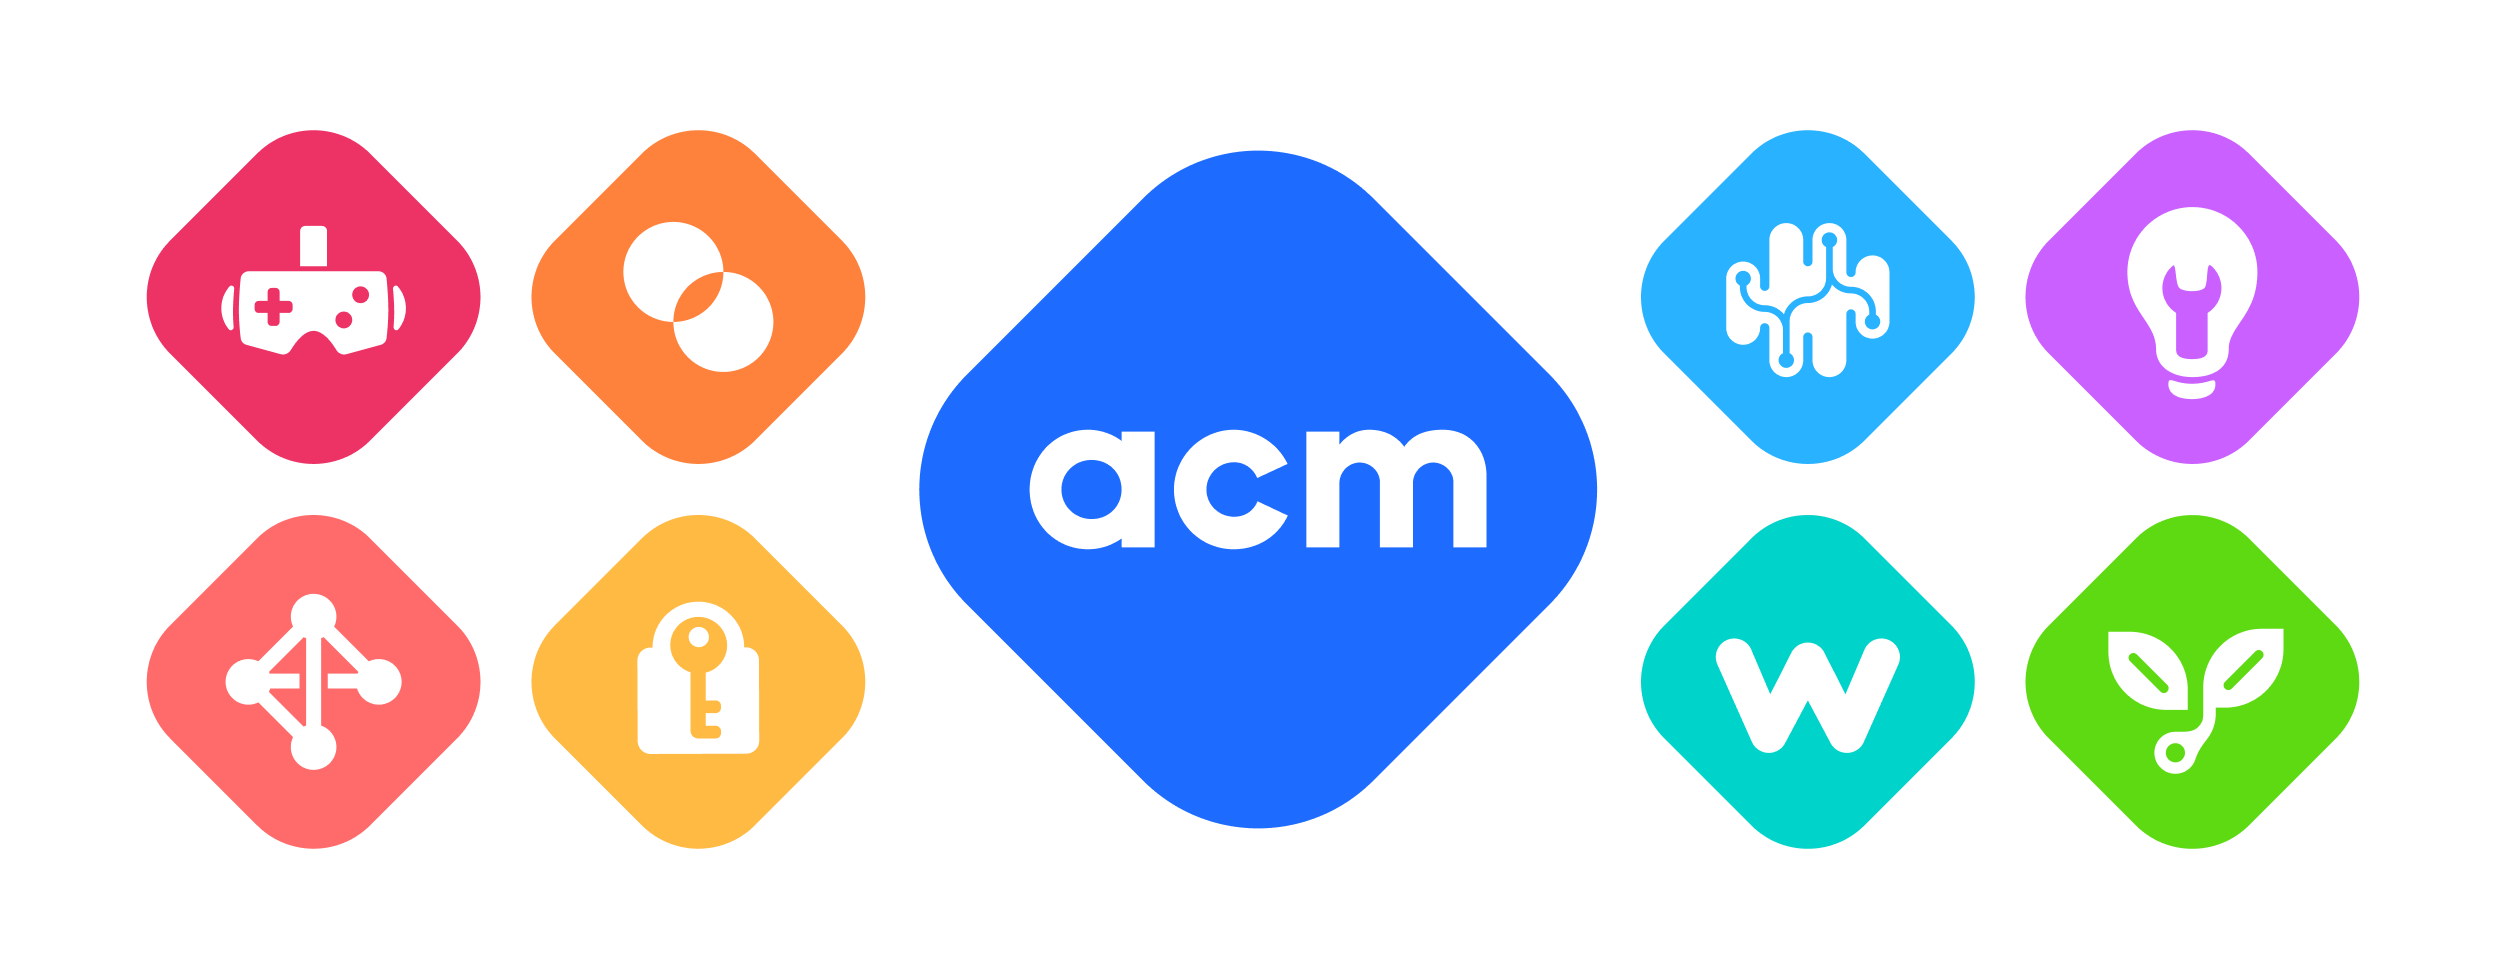
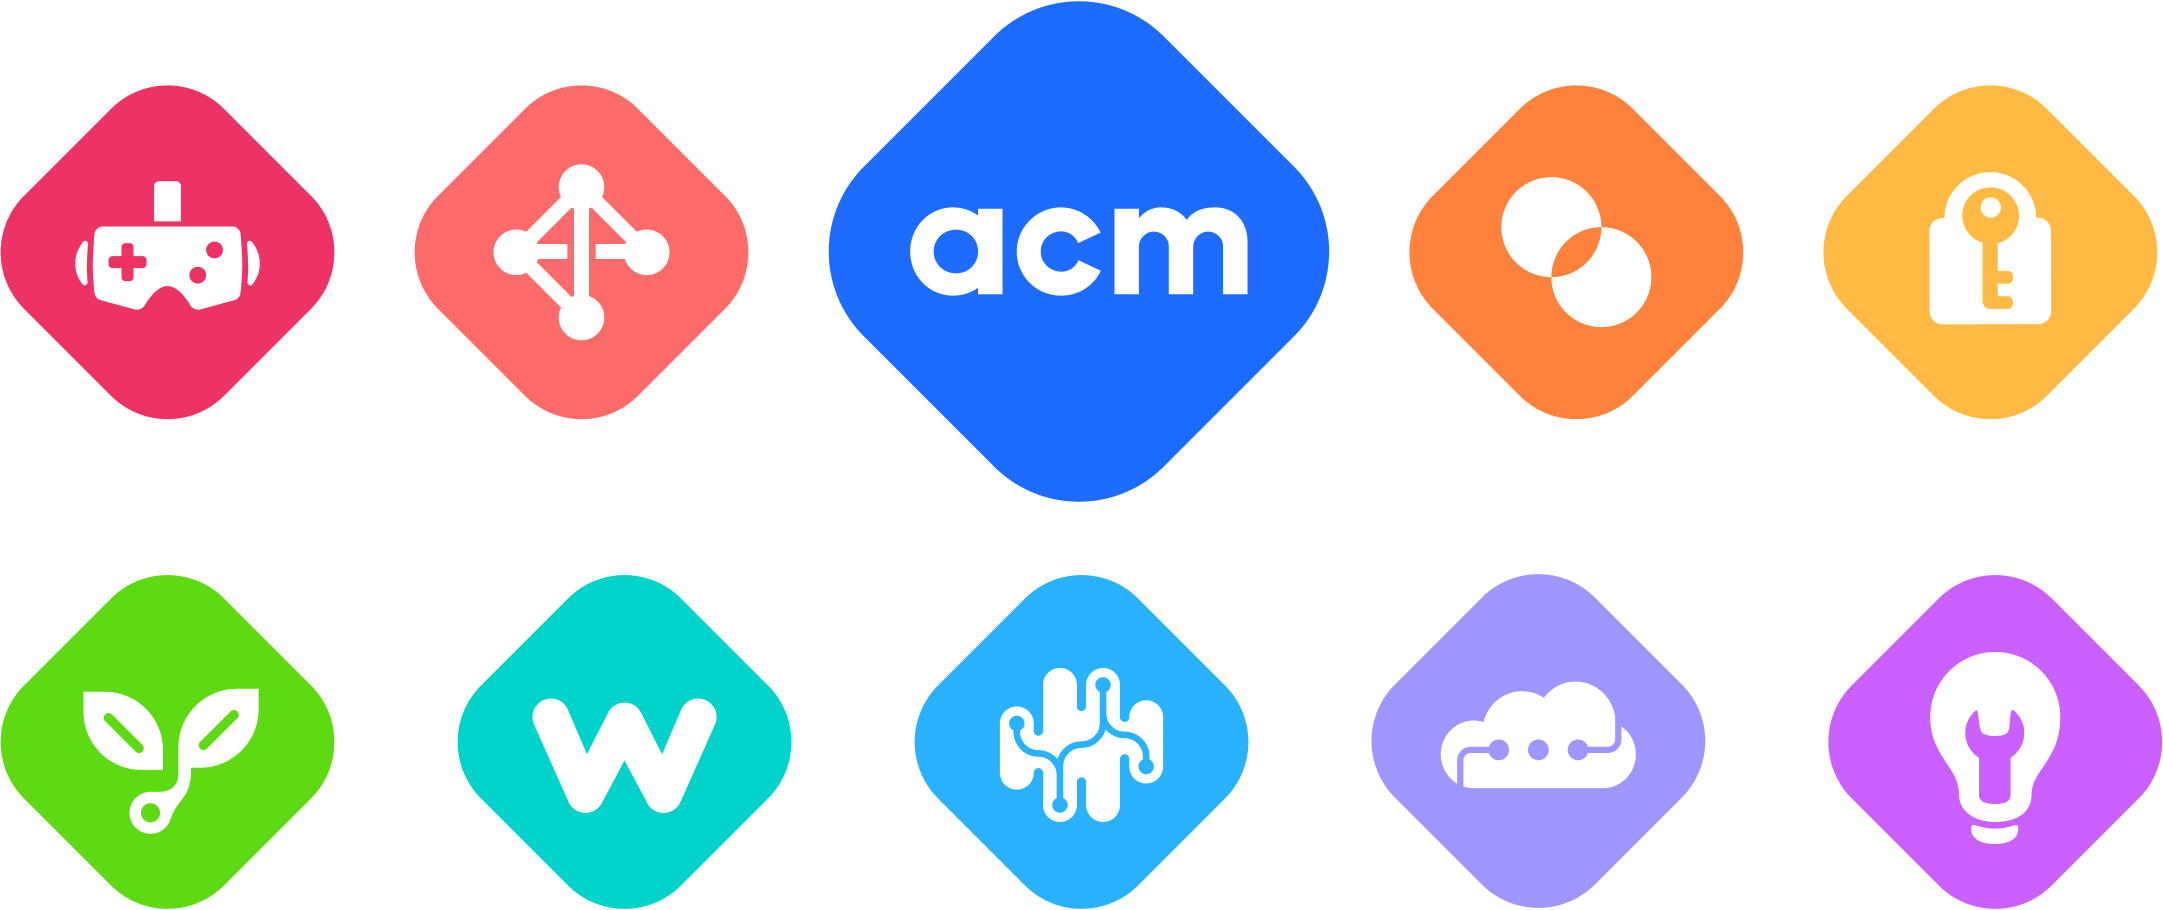
Add remaining cloud assets

diff --git a/data/committees.js b/data/committees.js
@@ -481,6 +481,116 @@ export default [
 			nextSteps: 'All Interns have the opportunity to become officers in the Spring',
 		},
 	},
+
+	{
+		name: 'Cloud',
+		class: 'cloud',
+		slug: 'cloud',
+		tagline: 'Building the Future in the Clouds',
+		external_link: null,
+		links: [
+			{
+				platform: 'instagram',
+				link: 'https://www.instagram.com/acmcloud/',
+			},
+			{
+				platform: 'discord',
+				link: 'https://discord.gg/smE3pk5DsJ',
+			},
+		],
+		infoCards: [
+			{
+				title: 'Distributed Systems Workshops',
+				image: {
+					src: '',
+					alt: '',
+				},
+				desc: (
+					<>
+						Our weekly Distributed File System Project series provided a hands-on introduction to distributed systems. Each week, participants explored concepts like cloud computing, system architectures, process communication, and security while building and enhancing a distributed file system. Starting with setting up a basic file server, they progressively implemented features such as client-server communication, naming services, consistency models, fault tolerance, and security measures. View the{' '}
+						<a
+							href='https://drive.google.com/drive/folders/1ZpBAxImfSNb-6HXjxvZ2gWgXxMQe-jVj'
+							target='_blank'
+							rel='noopener noreferrer'
+						>
+							drive of resources
+						</a>
+						{' '}and the{' '}
+						<a
+							href='https://drive.google.com/drive/folders/1nNUahdX3wLiI2NcrNm5q48mGGQ6wAPy_'
+							target='_blank'
+							rel='noopener noreferrer'
+						>
+							slides
+						</a>
+						.
+					</>
+				),
+			},
+			{
+				title: 'Amazon Web Services Workshops',
+				image: {
+					src: '/images/committees/cloud/aws.png',
+					alt: 'Image of Cloud AWS Workshops',
+				},
+				desc: (
+					<>
+						Our Amazon Web Services Workshop Series provided a comprehensive
+						introduction to AWS, featuring weekly sessions on key topics such as
+						cloud management, scaling, continuous integration and deployment,
+						databases, serverless technologies, and infrastructure as code.
+						The{' '}
+						<a
+							href='https://github.com/uclaacm/acmcloud-aws-w24'
+							target='_blank'
+							rel='noopener noreferrer'
+						>
+							GitHub repository
+						</a>
+						{' '}includes all code examples, slides, recordings, and guided project steps for you to get started with AWS.
+					</>
+				),
+			},
+			{
+				title: 'Google Cloud Platform Workshops',
+				image: {
+					src: '/images/committees/cloud/gcp.png',
+					alt: 'Image of Cloud GCP Workshops',
+				},
+				desc: (
+					<>
+						The Spring 2024 Google Cloud Platform Workshop mini-series provided
+						a comprehensive overview of GCP, featuring sessions on computing
+						and databases with Google Cloud.
+						View our GitHub repository{' '}
+						<a
+							href='https://github.com/uclaacm/acmcloud-gcp-s24'
+							target='_blank'
+							rel='noopener noreferrer'
+						>
+							here
+						</a>
+						.
+					</>
+				),
+			},
+		],
+		introImage: '/images/committees/cloud/cloud_motif_base.png',  // TODO - change to applied
+		mission:
+			'ACM Cloud is committed to providing resources to build a strong intuition of the architectural foundations of the modern cloud environment through project-based, hands-on experience.',
+		image: '/images/committees/cloud_wordmark.svg',  // TODO
+		wordmark_dark: '/images/committees/cloud_wordmark_dark.svg',  // TODO
+		diamond: '/images/diamonds/cloud_diamond.svg',  // TODO
+		internship: {
+			whatWeDo:
+				'ACM Cloud is committed to providing resources to build a strong intuition of the architectural foundations of the modern cloud environment through project-based, hands-on experience. ACM Cloud supports the UCLA community through three core pillars: Cloud Training Workshops, Research Projects, and Consulting Projects.',
+			whatInternsWillDo:
+				'Interns will work assist in organizing events and workshops based on personal interests each quarter.',
+			card: '/images/cards/cloud_card.svg',  // TODO
+			nextSteps:
+				'All Interns have the opportunity to become officers in the Spring if they choose to stay.',
+		},
+	},
 	{
 		name: 'Hack',
 		class: 'hack',
@@ -543,113 +653,4 @@ export default [
 			nextSteps: 'All Interns have the opportunity to become officers in the Spring if they choose to stay.',
 		},
 	},
-	{
-        name: 'Cloud',
-        class: 'cloud',
-        slug: 'cloud',
-        tagline: 'Building the Future in the Clouds',
-        external_link: null,
-        links: [
-            {
-                platform: 'instagram',
-                link: 'https://www.instagram.com/acmcloud/',
-            },
-            {
-                platform: 'discord',
-                link: 'https://discord.gg/smE3pk5DsJ',
-            },
-        ],
-        infoCards: [
-            {
-                title: 'Distributed Systems Workshops',
-                image: {
-                    src: '',
-                    alt: '',
-                },
-                desc: (
-                    <>
-                        Our weekly Distributed File System Project series provided a hands-on introduction to distributed systems. Each week, participants explored concepts like cloud computing, system architectures, process communication, and security while building and enhancing a distributed file system. Starting with setting up a basic file server, they progressively implemented features such as client-server communication, naming services, consistency models, fault tolerance, and security measures. View the{' '}
-                        <a
-                            href='https://drive.google.com/drive/folders/1ZpBAxImfSNb-6HXjxvZ2gWgXxMQe-jVj'
-                            target='_blank'
-                            rel='noopener noreferrer'
-                        >
-                            drive of resources
-                        </a>
-						{' '}and the{' '}
-                        <a
-                            href='https://drive.google.com/drive/folders/1nNUahdX3wLiI2NcrNm5q48mGGQ6wAPy_'
-                            target='_blank'
-                            rel='noopener noreferrer'
-                        >
-                            slides
-                        </a>
-						.
-                    </>
-                ),
-            },
-            {
-                title: 'Amazon Web Services Workshops',
-                image: {
-                    src: '/images/committees/cloud/aws.png',
-                    alt: 'Image of Cloud AWS Workshops',
-                },
-                desc: (
-					<>
-						Our Amazon Web Services Workshop Series provided a comprehensive
-						introduction to AWS, featuring weekly sessions on key topics such as
-						cloud management, scaling, continuous integration and deployment,
-						databases, serverless technologies, and infrastructure as code.
-						The{' '}
-						<a
-                            href='https://github.com/uclaacm/acmcloud-aws-w24'
-                            target='_blank'
-                            rel='noopener noreferrer'
-                        >
-                            GitHub repository
-                        </a>
-						{' '}includes all code examples, slides, recordings, and guided project steps for you to get started with AWS.
-					</>
-				),
-            },
-            {
-                title: 'Google Cloud Platform Workshops',
-                image: {
-                    src: '/images/committees/cloud/gcp.png',
-                    alt: 'Image of Cloud GCP Workshops',
-                },
-                desc: (
-					<>
-						The Spring 2024 Google Cloud Platform Workshop mini-series provided
-						a comprehensive overview of GCP, featuring sessions on computing
-						and databases with Google Cloud.
-						View our GitHub repository{' '}
-						<a
-                            href='https://github.com/uclaacm/acmcloud-gcp-s24'
-                            target='_blank'
-                            rel='noopener noreferrer'
-                        >
-                            here
-                        </a>
-						.
-					</>
-				),
-            },
-        ],
-        introImage: '/images/committees/cloud/cloud_motif_base.png',  // TODO - change to applied
-        mission:
-            'ACM Cloud is committed to providing resources to build a strong intuition of the architectural foundations of the modern cloud environment through project-based, hands-on experience.',
-        image: '/images/committees/hack_wordmark.svg',  // TODO
-        wordmark_dark: '/images/committees/hack_wordmark_dark.svg',  // TODO
-        diamond: '/images/diamonds/ai_diamond.svg',  // TODO
-        internship: {
-            whatWeDo:
-                'ACM Cloud is committed to providing resources to build a strong intuition of the architectural foundations of the modern cloud environment through project-based, hands-on experience. ACM Cloud supports the UCLA community through three core pillars: Cloud Training Workshops, Research Projects, and Consulting Projects.',
-            whatInternsWillDo:
-                'Interns will work assist in organizing events and workshops based on personal interests each quarter.',
-            card: '/images/cards/hack_card.svg',  // TODO
-            nextSteps:
-                'All Interns have the opportunity to become officers in the Spring if they choose to stay.',
-        },
-    },
 ];

diff --git a/pages/officers.js b/pages/officers.js
@@ -50,7 +50,7 @@ function OfficersPage() {
               url: 'https://www.uclaacm.com/images/acm_committees.png',
               width: 2506,
               height: 979,
-              alt: 'The ACM at UCLA logo, surrounded by our eight committees: Studio, ICPC, Design, Cyber, Teach LA, W, AI, and Hack.',
+              alt: 'The ACM at UCLA logo, surrounded by our nine committees: Studio, ICPC, Design, Cyber, Teach LA, W, AI, and Hack.',
             },
           ],
           site_name: 'ACM at UCLA',

diff --git a/pages/committees.js b/pages/committees.js
@@ -37,7 +37,7 @@ function CommitteesPage() {
 							url: 'https://www.uclaacm.com/images/acm_committees.png',
 							width: 2506,
 							height: 979,
-							alt: 'The ACM at UCLA logo, surrounded by our eight committees: Studio, ICPC, Design, Cyber, Teach LA, W, AI, and Hack.',
+							alt: 'The ACM at UCLA logo, surrounded by our nine committees: Studio, ICPC, Design, Cyber, Teach LA, W, AI, and Hack.',
 						},
 					],
 					site_name: 'ACM at UCLA',

diff --git a/styles/pages/committees.scss b/styles/pages/committees.scss
@@ -52,6 +52,7 @@
 .image-wrapper {
   border-radius: 10px;
   box-shadow: 0 0 1pt 0;
+  padding: 10px 20px;
 
   // this is kind of gnarly, but the !important override is needed to overwrite the CSS built into /next/image
   // the div is to change display from inline-block to block so there's no weird spacing between border and image
